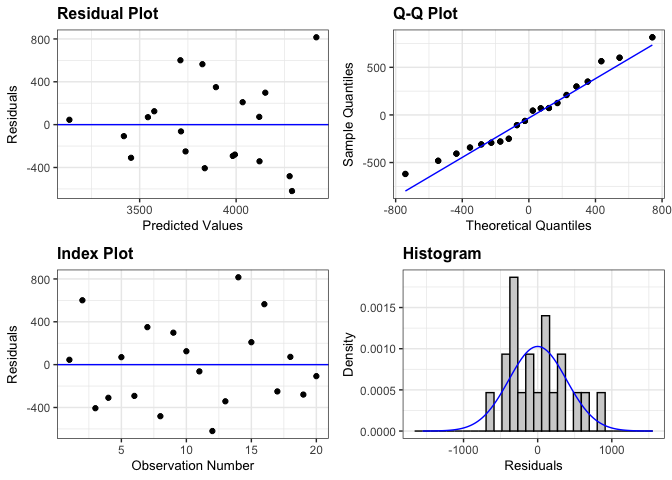
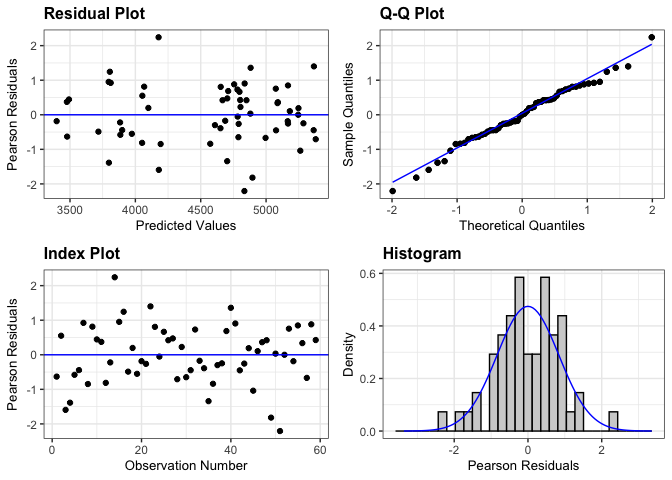
1

diff --git a/rmarkdowns/bean_yield.md b/rmarkdowns/bean_yield.md
@@ -46,43 +46,55 @@ return(d)}
 ### **Load individual datasets**
 
 ``` r
-cu_raw_2023 <- read_excel("~/Github/Mowtivation/raw-data/cornell_raw_2023.xlsx")
-kable(head(cu_raw_2023))
+combined_raw <- read_excel("~/Github/Mowtivation/raw-data/All Treatments/combined_raw.xlsx")
+kable(head(combined_raw))
 ```
 
-| id | loc | year | trt | block | pllot | emerge | bbm | intrabm | interbm | totwbm | totmbm | beanden | beanyd |
-|:---|:---|---:|:---|---:|---:|---:|---:|---:|---:|---:|:---|---:|---:|
-| CU_B1_P101 | field x | 2023 | TIM | 1 | 101 | 46.5 | 223.740 | 19.000 | 44.490 | 63.490 | Na | 34.5 | 417.21 |
-| CU_B1_P102 | field x | 2023 | TIC | 1 | 102 | 42.5 | 267.460 | 30.975 | 0.720 | 31.695 | Na | 39.5 | 565.54 |
-| CU_B1_P103 | field x | 2023 | RIM | 1 | 103 | 36.5 | 217.890 | 0.950 | 6.890 | 3.920 | 285.95 | 37.5 | 449.93 |
-| CU_B1_P104 | field x | 2023 | RNO | 1 | 104 | 41.0 | 207.675 | 0.660 | 45.735 | 46.395 | 241.03 | 35.0 | 412.59 |
-| CU_B1_P105 | field x | 2023 | RIC | 1 | 105 | 41.0 | 230.285 | 0.495 | 22.025 | 22.520 | 306.64 | 39.0 | 473.79 |
-| CU_B1_P201 | field x | 2023 | RIC | 2 | 201 | 36.5 | 208.105 | 6.395 | 19.460 | 25.855 | 370.94499999999999 | 33.5 | 484.04 |
+| id | location | year | treatment | block | plot | bean_emergence | bean_biomass | intrarow_weed_biomass | interrow_weed_biomass | weed_biomass | bean_population | bean_yield |
+|:---|:---|---:|:---|---:|---:|---:|---:|---:|---:|---:|:---|:---|
+| CU_B1_P101 | field x | 2023 | TIM | 1 | 101 | 46.5 | 223.740 | 19.000 | 44.490 | 63.490 | 34.5 | 417.21 |
+| CU_B1_P102 | field x | 2023 | TIC | 1 | 102 | 42.5 | 267.460 | 30.975 | 0.720 | 31.695 | 39.5 | 565.54 |
+| CU_B1_P103 | field x | 2023 | RIM | 1 | 103 | 36.5 | 217.890 | 0.950 | 6.890 | 3.920 | 37.5 | 449.93 |
+| CU_B1_P104 | field x | 2023 | RNO | 1 | 104 | 41.0 | 207.675 | 0.660 | 45.735 | 46.395 | 35 | 412.59 |
+| CU_B1_P105 | field x | 2023 | RIC | 1 | 105 | 41.0 | 230.285 | 0.495 | 22.025 | 22.520 | 39 | 473.79 |
+| CU_B1_P201 | field x | 2023 | RIC | 2 | 201 | 36.5 | 208.105 | 6.395 | 19.460 | 25.855 | 33.5 | 484.04 |
 
 ``` r
 #Standardaze column names, convert to factors, check for outliers of variable**
-clean_2023 <- clean_names(cu_raw_2023) |>  
-  rename ('cultivation'= trt) |> 
-  mutate(across(c(cultivation, block, pllot, loc), as.factor)) #|> 
+clean_combined <- clean_names(combined_raw) |>  
+  rename ('weed_control'= treatment) |> 
+  mutate(across(c(weed_control, block, plot, location, year), as.factor)) #|> 
   #mutate(is_outlier = totwbm < (quantile(totwbm, 0.25) - 1.5 * IQR(totwbm)) |
                        #wbm > (quantile(totwbm, 0.75) + 1.5 * IQR(totwbm)))
 
 #select and convert data for wbm analysis
-beanyd_clean_2023 <-clean_2023 |>              
-  mutate(beanyd_adj_bu_acre = (((beanyd/454)/(16.4/43560))/60)* ((100-0.00001)/(100-14)))   |> 
-  mutate(beanyd_adj_lbs_acre = ((beanyd/454)/(16.4/43560))* ((100-0.00001)/(100-14))) |>
-  mutate(beanyd_adj_kg_ha = ((beanyd/454)/(16.4/43560))* 1.12085 *((100-0.00001)/(100-14)))
-kable(head(beanyd_clean_2023)) 
+  bean_yield_clean <- clean_combined |>  
+  mutate(bean_yield = as.numeric(bean_yield)) |>  # Convert beanyd to numeric
+  filter(!is.na(bean_yield)) |>  # Exclude rows with NA in beanyd
+  mutate(
+    bean_yield_adj_bu_acre = (((bean_yield / 454) / (16.4 / 43560)) / 60) * ((100 - 0.00001) / (100 - 14)),
+    bean_yield_adj_lbs_acre = ((bean_yield / 454) / (16.4 / 43560)) * ((100 - 0.00001) / (100 - 14)),
+    bean_yield_adj_kg_ha = ((bean_yield / 454) / (16.4 / 43560)) * 1.12085 * ((100 - 0.00001) / (100 - 14))
+  )
 ```
 
-| id | loc | year | cultivation | block | pllot | emerge | bbm | intrabm | interbm | totwbm | totmbm | beanden | beanyd | beanyd_adj_bu_acre | beanyd_adj_lbs_acre | beanyd_adj_kg_ha |
-|:---|:---|---:|:---|:---|:---|---:|---:|---:|---:|---:|:---|---:|---:|---:|---:|---:|
-| CU_B1_P101 | field x | 2023 | TIM | 1 | 101 | 46.5 | 223.740 | 19.000 | 44.490 | 63.490 | Na | 34.5 | 417.21 | 47.30348 | 2838.209 | 3181.207 |
-| CU_B1_P102 | field x | 2023 | TIC | 1 | 102 | 42.5 | 267.460 | 30.975 | 0.720 | 31.695 | Na | 39.5 | 565.54 | 64.12122 | 3847.273 | 4312.216 |
-| CU_B1_P103 | field x | 2023 | RIM | 1 | 103 | 36.5 | 217.890 | 0.950 | 6.890 | 3.920 | 285.95 | 37.5 | 449.93 | 51.01330 | 3060.798 | 3430.695 |
-| CU_B1_P104 | field x | 2023 | RNO | 1 | 104 | 41.0 | 207.675 | 0.660 | 45.735 | 46.395 | 241.03 | 35.0 | 412.59 | 46.77967 | 2806.780 | 3145.979 |
-| CU_B1_P105 | field x | 2023 | RIC | 1 | 105 | 41.0 | 230.285 | 0.495 | 22.025 | 22.520 | 306.64 | 39.0 | 473.79 | 53.71855 | 3223.113 | 3612.626 |
-| CU_B1_P201 | field x | 2023 | RIC | 2 | 201 | 36.5 | 208.105 | 6.395 | 19.460 | 25.855 | 370.94499999999999 | 33.5 | 484.04 | 54.88070 | 3292.842 | 3690.782 |
+    ## Warning: There was 1 warning in `mutate()`.
+    ## ℹ In argument: `bean_yield = as.numeric(bean_yield)`.
+    ## Caused by warning:
+    ## ! NAs introduced by coercion
+
+``` r
+kable(head(bean_yield_clean)) 
+```
+
+| id | location | year | weed_control | block | plot | bean_emergence | bean_biomass | intrarow_weed_biomass | interrow_weed_biomass | weed_biomass | bean_population | bean_yield | bean_yield_adj_bu_acre | bean_yield_adj_lbs_acre | bean_yield_adj_kg_ha |
+|:---|:---|:---|:---|:---|:---|---:|---:|---:|---:|---:|:---|---:|---:|---:|---:|
+| CU_B1_P101 | field x | 2023 | TIM | 1 | 101 | 46.5 | 223.740 | 19.000 | 44.490 | 63.490 | 34.5 | 417.21 | 47.30348 | 2838.209 | 3181.207 |
+| CU_B1_P102 | field x | 2023 | TIC | 1 | 102 | 42.5 | 267.460 | 30.975 | 0.720 | 31.695 | 39.5 | 565.54 | 64.12122 | 3847.273 | 4312.216 |
+| CU_B1_P103 | field x | 2023 | RIM | 1 | 103 | 36.5 | 217.890 | 0.950 | 6.890 | 3.920 | 37.5 | 449.93 | 51.01330 | 3060.798 | 3430.695 |
+| CU_B1_P104 | field x | 2023 | RNO | 1 | 104 | 41.0 | 207.675 | 0.660 | 45.735 | 46.395 | 35 | 412.59 | 46.77967 | 2806.780 | 3145.979 |
+| CU_B1_P105 | field x | 2023 | RIC | 1 | 105 | 41.0 | 230.285 | 0.495 | 22.025 | 22.520 | 39 | 473.79 | 53.71855 | 3223.113 | 3612.626 |
+| CU_B1_P201 | field x | 2023 | RIC | 2 | 201 | 36.5 | 208.105 | 6.395 | 19.460 | 25.855 | 33.5 | 484.04 | 54.88070 | 3292.842 | 3690.782 |
 
 <br>
 
@@ -90,10 +102,21 @@ kable(head(beanyd_clean_2023))
 
 ### **block is fixed**
 
-``` r
-beanyd_fixed <- lm(beanyd_adj_kg_ha  ~ cultivation + block  , data = beanyd_clean_2023)
+\#Ask tyler about model format, should block always be fixed, etc.
+should location be nested in year?
 
-resid_panel(beanyd_fixed)
+``` r
+fixed <- lmer(bean_yield_adj_kg_ha ~ year*weed_control*location + block 
+                     +(1 | year/location), data = bean_yield_clean)
+```
+
+    ## fixed-effect model matrix is rank deficient so dropping 15 columns / coefficients
+
+    ## Warning in as_lmerModLT(model, devfun): Model may not have converged with 2
+    ## eigenvalues close to zero: 2.2e-09 8.1e-10
+
+``` r
+resid_panel(fixed)
 ```
 
 ![](bean_yield_files/figure-gfm/unnamed-chunk-4-1.png)<!-- -->
@@ -101,9 +124,13 @@ resid_panel(beanyd_fixed)
 ### **block is random**
 
 ``` r
-beanyd_ran <- lmer(beanyd_adj_kg_ha  ~ cultivation + (1|block)  , data = beanyd_clean_2023)
+random <- lmer(bean_yield_adj_kg_ha  ~ weed_control + (1|block)  , data = bean_yield_clean)
+```
 
-resid_panel(beanyd_ran)
+    ## boundary (singular) fit: see help('isSingular')
+
+``` r
+resid_panel(random)
 ```
 
 ![](bean_yield_files/figure-gfm/unnamed-chunk-5-1.png)<!-- -->
@@ -113,54 +140,69 @@ resid_panel(beanyd_ran)
 \##**Joint test**
 
 ``` r
- beanyd_fixed |> 
+ fixed |> 
   joint_tests() |> 
   kable()  
 ```
 
-| model term  | df1 | df2 | F.ratio |   p.value |
-|:------------|----:|----:|--------:|----------:|
-| cultivation |   4 |  12 |   1.208 | 0.3575539 |
-| block       |   3 |  12 |   1.291 | 0.3223078 |
+    ## NOTE: A nesting structure was detected in the fitted model:
+    ##     location %in% year
+
+|     | model term                 | df1 |      df2 | F.ratio |   p.value | note |
+|:----|:---------------------------|----:|---------:|--------:|----------:|:-----|
+| 1   | year                       |   1 | 90870.37 |   1.452 | 0.2282015 |      |
+| 5   | weed_control               |   4 |    41.00 |   1.335 | 0.2734328 |      |
+| 6   | block                      |   3 |    41.00 |   0.123 | 0.9458155 |      |
+| 2   | year:weed_control          |   4 |    41.00 |   0.652 | 0.6290763 |      |
+| 4   | year:location              |   1 | 16912.91 |   0.074 | 0.7852912 | e    |
+| 3   | year:weed_control:location |   4 |    41.00 |   1.679 | 0.1733297 | e    |
 
 <br>
 
 # **Means comparison**
 
 ``` r
-beanyd_means_2023 <- 
- emmeans(beanyd_fixed, ~  cultivation)
+means <- emmeans(fixed, ~  weed_control)
 # Optional: Adjust for multiple comparisons (e.g., using Tukey's method)
 
-pairwise_comparisons<- pairs(beanyd_means_2023) 
+pairwise_comparisons<- pairs(means) 
 kable(head(pairwise_comparisons))
 ```
 
-| contrast  |   estimate |      SE |  df |    t.ratio |   p.value |
-|:----------|-----------:|--------:|----:|-----------:|----------:|
-| RIC - RIM | -294.55193 | 345.403 |  12 | -0.8527775 | 0.9580254 |
-| RIC - RNO |   87.40102 | 345.403 |  12 |  0.2530407 | 0.9999442 |
-| RIC - TIC | -168.39709 | 345.403 |  12 | -0.4875379 | 0.9976223 |
-| RIC - TIM |  406.96280 | 345.403 |  12 |  1.1782259 | 0.8378381 |
-| RIM - RNO |  381.95296 | 345.403 |  12 |  1.1058181 | 0.8724211 |
-| RIM - TIC |  126.15485 | 345.403 |  12 |  0.3652395 | 0.9995313 |
+| contrast  |   estimate |       SE |  df |    t.ratio |   p.value |
+|:----------|-----------:|---------:|----:|-----------:|----------:|
+| RIC - RIM |  -81.02477 | 206.4819 |  41 | -0.3924062 | 0.9992229 |
+| RIC - RNO |   96.12206 | 203.4762 |  41 |  0.4723996 | 0.9977921 |
+| RIC - TIC | -127.08890 | 203.4762 |  41 | -0.6245887 | 0.9899819 |
+| RIC - TIM |  293.07460 | 203.4762 |  41 |  1.4403388 | 0.6420372 |
+| RIM - RNO |  177.14683 | 206.4819 |  41 |  0.8579292 | 0.9514074 |
+| RIM - TIC |  -46.06413 | 206.4819 |  41 | -0.2230904 | 0.9999709 |
 
 ### **Fisher’s method for comparing means**
 
 ``` r
-#mowing
-cld_cultivation_fisher <-cld(emmeans(beanyd_fixed, ~  cultivation, type = "response"), Letters = letters, sort = TRUE, adjust="none", reversed=TRUE)
-cld_cultivation_fisher
+#weed_control
+cld_weed_control_fisher <-cld(emmeans(fixed, ~  weed_control, type = "response"), Letters = letters, sort = TRUE, adjust="none", reversed=TRUE)
 ```
 
-    ##  cultivation emmean  SE df lower.CL upper.CL .group
-    ##  RIM           4163 244 12     3630     4695  a    
-    ##  TIC           4036 244 12     3504     4569  a    
-    ##  RIC           3868 244 12     3336     4400  a    
-    ##  RNO           3781 244 12     3248     4313  a    
-    ##  TIM           3461 244 12     2929     3993  a    
+    ## NOTE: A nesting structure was detected in the fitted model:
+    ##     location %in% year
+
+    ## NOTE: Results may be misleading due to involvement in interactions
+
+``` r
+cld_weed_control_fisher
+```
+
+    ##  weed_control emmean  SE   df lower.CL upper.CL .group
+    ##  TIC            4560 462 4371     3654     5467  a    
+    ##  RIM            4514 464 3939     3605     5423  ab   
+    ##  RIC            4433 462 4371     3527     5339  ab   
+    ##  RNO            4337 462 4371     3431     5243  ab   
+    ##  TIM            4140 462 4371     3234     5046   b   
     ## 
-    ## Results are averaged over the levels of: block 
+    ## Results are averaged over the levels of: block, location, year 
+    ## Degrees-of-freedom method: kenward-roger 
     ## Confidence level used: 0.95 
     ## significance level used: alpha = 0.05 
     ## NOTE: If two or more means share the same grouping symbol,
@@ -172,17 +214,17 @@ cld_cultivation_fisher
 ## **Cultivation**
 
 ``` r
-beanyd_clean_2023 |> 
-  left_join(cld_cultivation_fisher) |> 
-  ggplot(aes(x = cultivation, y = beanyd_adj_kg_ha, fill = cultivation)) +
+bean_yield_clean |> 
+  left_join(cld_weed_control_fisher) |> 
+  ggplot(aes(x = weed_control, y = bean_yield_adj_kg_ha, fill = weed_control)) +
   stat_summary(geom = "bar", fun = "mean", width = 0.7) +
   stat_summary(geom = "errorbar", fun.data = "mean_se", width = 0.2) +
-  stat_summary(geom="text", fun = "MeanPlusSe", aes(label= trimws(.group)),size=6.5,vjust=-0.5) +
+  #stat_summary(geom="text", fun = "MeanPlusSe", aes(label= trimws(.group)),size=6.5,vjust=-0.5) +
   labs(
-    x = "Interrow weed control method",
+    x = "Method of interrow weed control",
     y = expression("Soybean yield" ~ (kg ~ ha^{-1})),
-    title = str_c("The influence of interrow weed control method on soybean yield"),
-    subtitle = expression(italic("P = 0.01"))) +
+    title = str_c("The influence of the method of interrow weed control on soybean yield"),
+    subtitle = expression(italic("Not signficant"))) +
   
   scale_x_discrete(labels = c("Rolled,\nhigh-residue\ncultivation",
                               "Rolled,\ninterrow\nmowing",
@@ -202,5 +244,5 @@ beanyd_clean_2023 |>
 ![](bean_yield_files/figure-gfm/unnamed-chunk-9-1.png)<!-- -->
 
 ``` r
-ggsave("beanyd_plot_cutivation.png", width = 8, height = 6, dpi = 300)
+ggsave("beanydall_plot_cutivation.png", width = 8, height = 6, dpi = 300)
 ```
